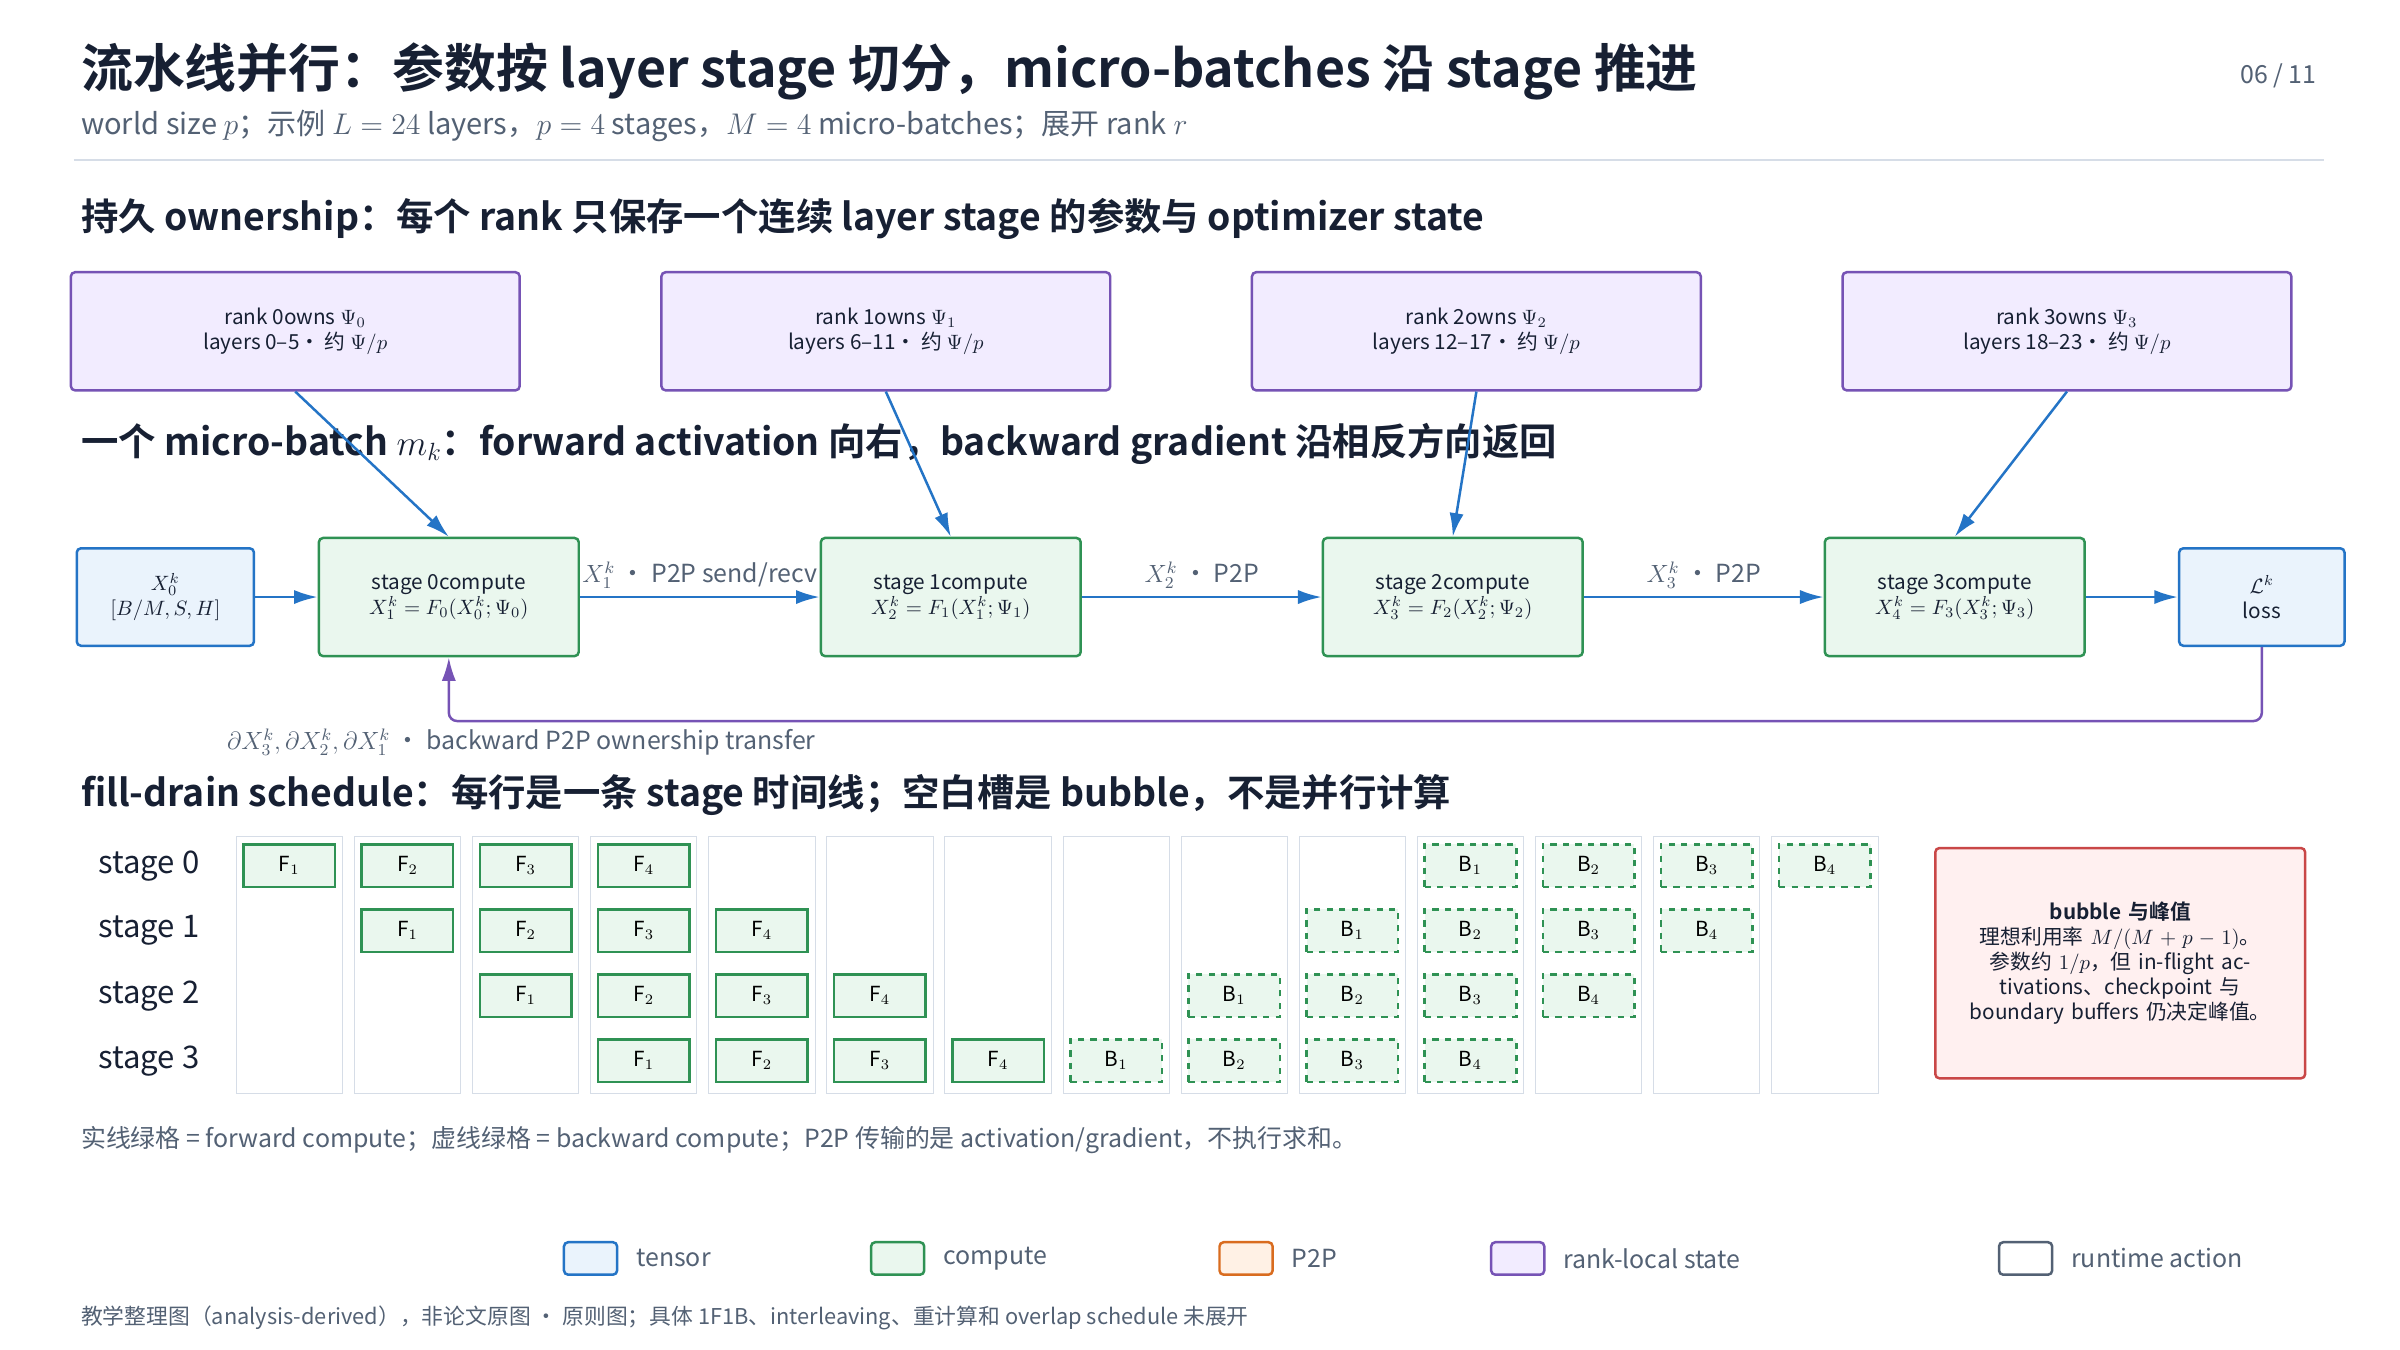
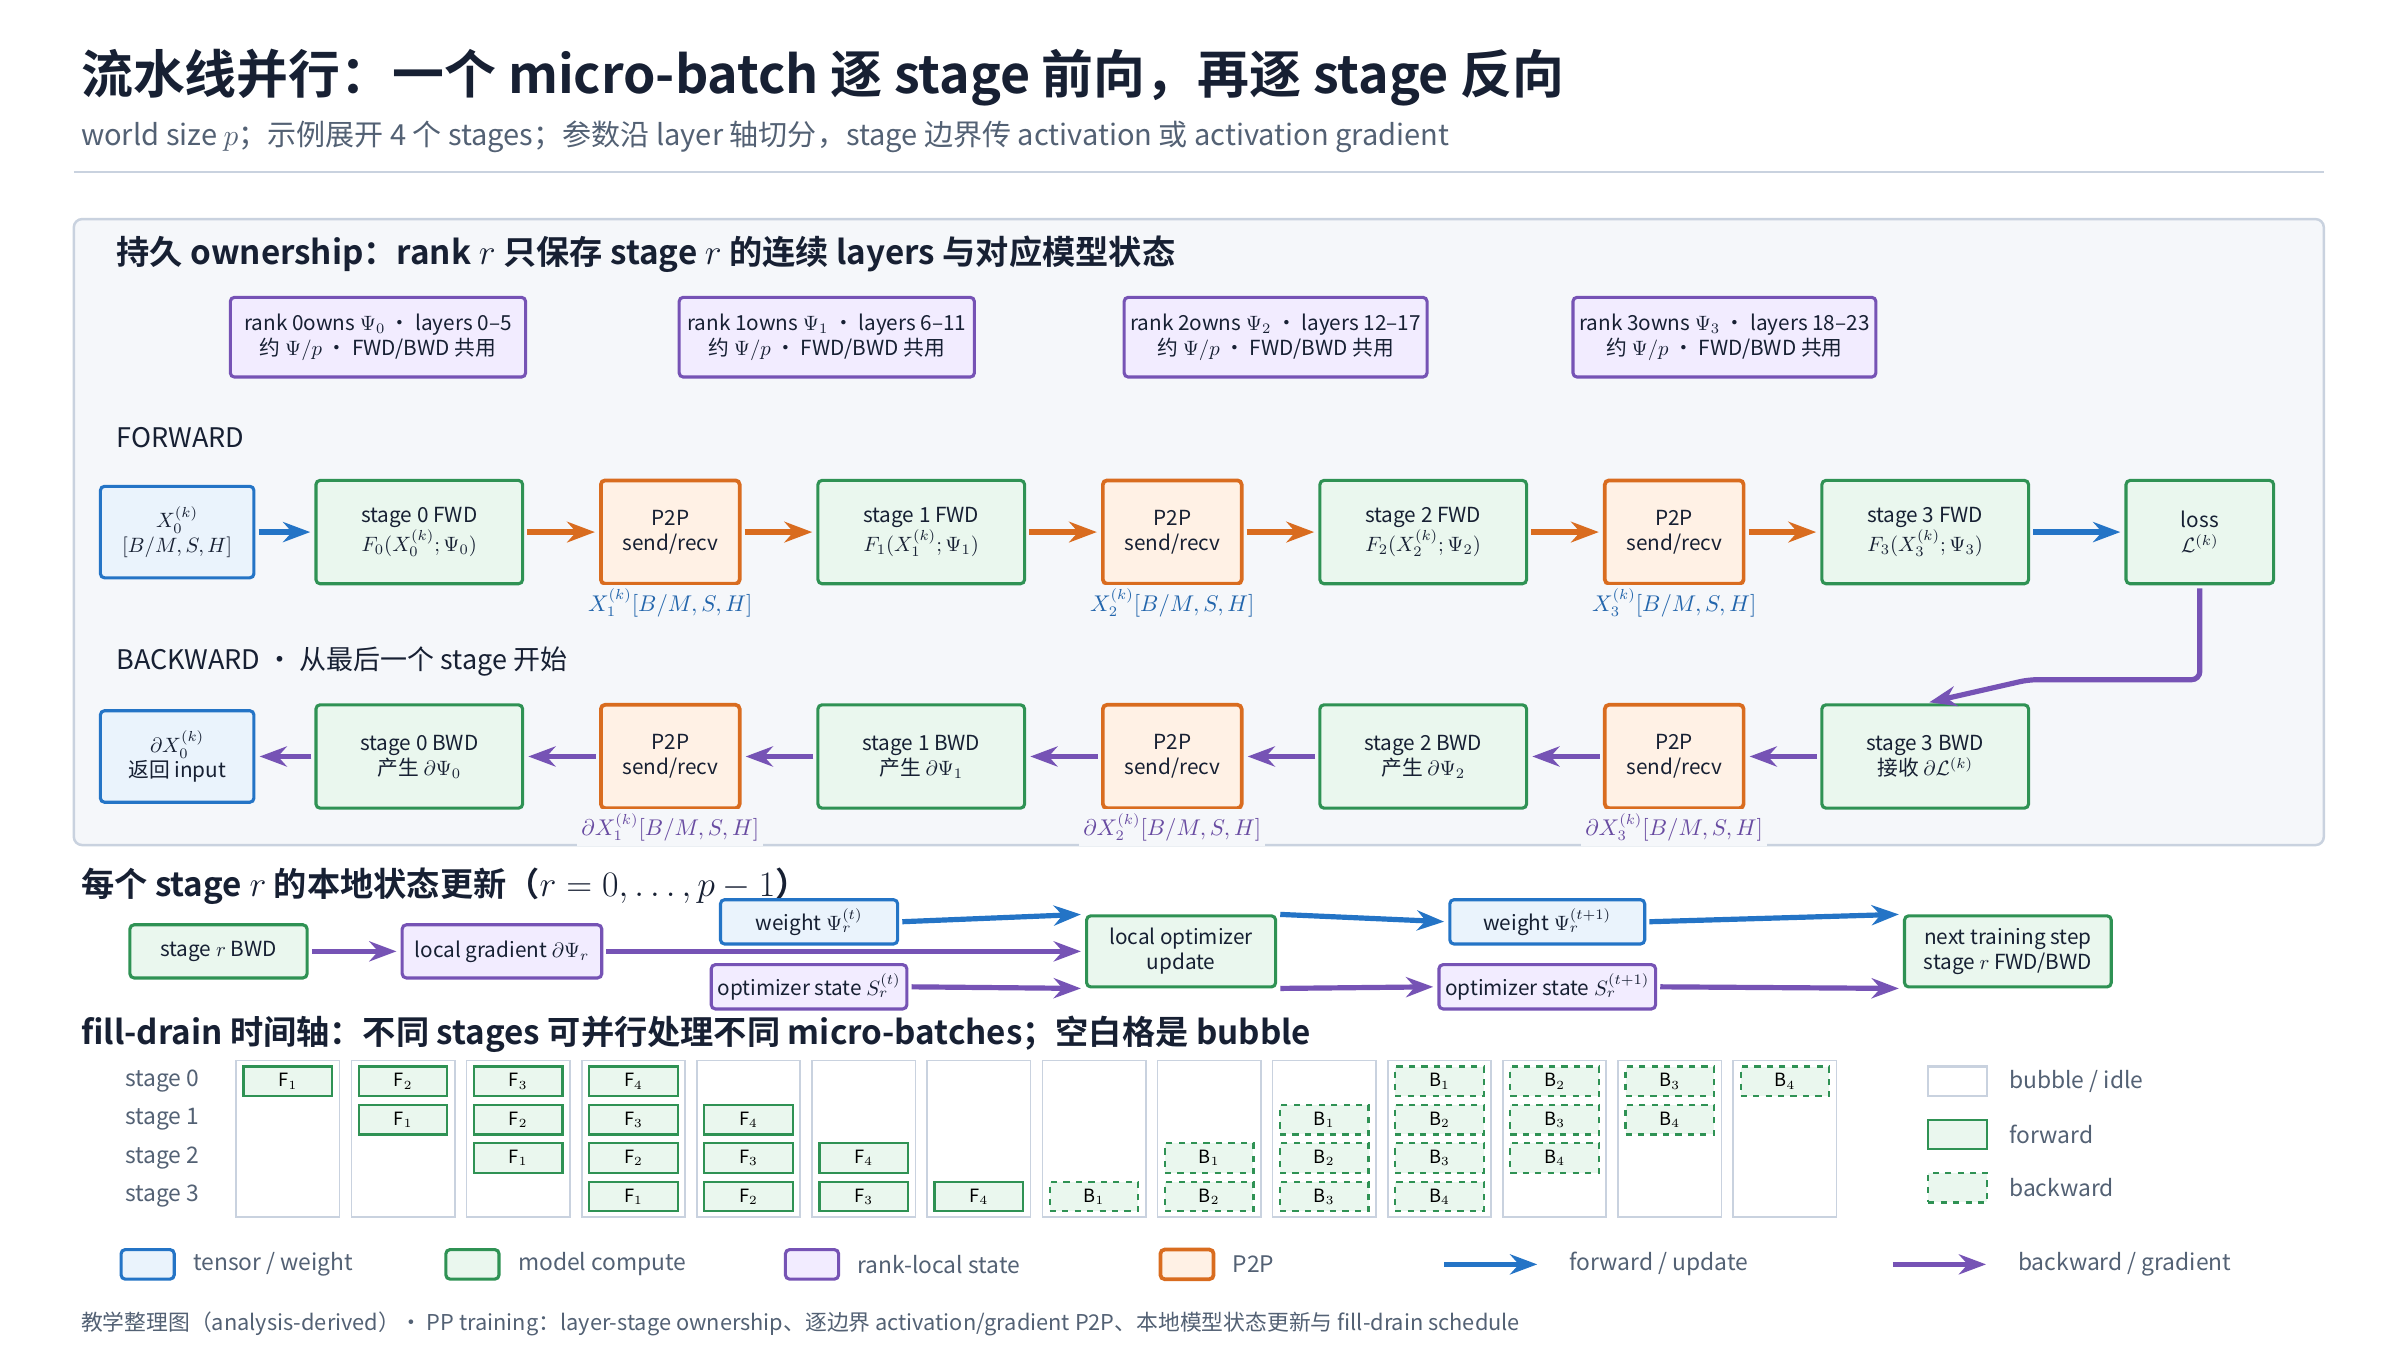
docs(parallelism): correct PP backward flow

diff --git a/01_ai_infra/parallelism/evidence/figure-inventory.md b/01_ai_infra/parallelism/evidence/figure-inventory.md
@@ -44,7 +44,7 @@ canonical: true
 
 以下 11 张 PNG 全部由 [并行切分方法体系](../surveys/parallel-partitioning-taxonomy.md) 独占，使用 TikZ 排版并以 `2400×1350` 输出。它们是 analysis-derived 教学整理图，不是原论文 Figure/Table，不计入论文视觉证据数量。TikZ 源码、PDF、过程渲染、contact sheet 与像素检查保留在 process workspace。
 
-2026-08-04 的 `1.10.0` 修订把 PP、SP、Ulysses、Ring/CP 与 CFGP 补齐到同一 semantic visual grammar：蓝色只表示 tensor/weight，绿色只表示 model compute，橙色表示 collective/P2P，紫色表示 rank-local persistent state，灰色表示 runtime action。PP 分开表示 stage 参数 ownership、单个 micro-batch 的 forward/backward P2P 与 fill-drain 时间轴；SP 显式展示 AG/RS 两侧的 activation ownership 生命周期；Ulysses 保留 sender chunk、receiver concat 与双向 layout transpose；Ring/CP 把固定 $Q$、轮转 KV、online-softmax state、环形 P2P 和 causal imbalance 分层；CFGP 分开显示并行 branches、复制模型状态、branch-output exchange 和 guidance combine。五张图均参数化 world size $p$ 与 illustrated rank $r$，并移除会把 rank 颜色误当节点类型、让箭头穿过状态框或让节点超出画布的旧表达。`1.9.0` 修订统一普通 DP、ZeRO-1/2/3、TP 与 EP 的 tensor-flow 视觉语法：保留输入、输出、当前 micro-batch、ownership 和持久状态等有独立语义的框；其余中间 tensor 改为主箭头附近的蓝色标注，并让细引线与主 flow 保持间距。ZeRO 图保留有助于表达顺序执行的 $m_k$，且 all-gather 输出到计算使用单根完整橙色箭头，避免拼接成多色箭头。TP/EP 按 pre-norm layer 粒度展开，`Norm` 不绑定具体归一化实现；residual shortcut 用独立蓝色虚线，TP 以纵/横条纹区分 column/row split 并显式展示本 rank weight shard，EP 采用单向处理链和 expert ownership 条带。`1.8.0` 将普通 DP 与 ZeRO-1/2/3 更新为框架中立的方法机制图：sampler 与 async release 使用独立 runtime-action 语义；weight、gradient 与 optimizer state 显式展示 ownership；ZeRO-2 删除 bucket 等实现优化；ZeRO-3 用 `MODEL LAYERS × L` 标出 layer-local 重复范围，并把 temporary BF16 weight、FWD/BWD 输入依赖和异步 release 侧支画入 workflow。原理图的可见区域不再包含 framework、commit、配置或源码符号。`1.7.0` 修订用每 rank 单条时间线替换 `1.6.0` 的并列支路，使 micro-batch 顺序由箭头拓扑显式表达。`1.6.0` 曾显式列出 $m_1$、$m_2$、$m_K$ 及累计状态，但并列布局容易被误读为同一 rank 内并发，现已替换。`1.5.0` 将 ZeRO-1 修正为 gradient reduce-scatter、owner-local update 和 parameter all-gather。`1.4.0` 修订把 DP/ZeRO 汇总图拆成普通 DP、ZeRO-1、ZeRO-2、ZeRO-3 四张 workflow。2026-08-02 的 `1.3.0` 修订把原 SVG 重绘为 TikZ。`1.2.0` 参考的 [Colossal-AI Parallelism](https://colossalai.org/docs/concepts/paradigms_of_parallelism) 只作为视觉组织参考；tensor 关系、成本注释和边界条件来自本领域 canonical Paper/Topic/Evidence 的综合分析。
+2026-08-04 的 `1.10.1` 修订纠正 PP 的 backward 拓扑：loss 仅进入最后一个 stage，activation gradient 再按 stage 3 → 2 → 1 → 0 逐边界 P2P 返回；同时显式增加各 stage 本地 weight、gradient、optimizer state 与 update 的交互链。`1.10.0` 修订把 PP、SP、Ulysses、Ring/CP 与 CFGP 补齐到同一 semantic visual grammar：蓝色只表示 tensor/weight，绿色只表示 model compute，橙色表示 collective/P2P，紫色表示 rank-local persistent state，灰色表示 runtime action。PP 分开表示 stage 参数 ownership、单个 micro-batch 的 forward/backward P2P 与 fill-drain 时间轴；SP 显式展示 AG/RS 两侧的 activation ownership 生命周期；Ulysses 保留 sender chunk、receiver concat 与双向 layout transpose；Ring/CP 把固定 $Q$、轮转 KV、online-softmax state、环形 P2P 和 causal imbalance 分层；CFGP 分开显示并行 branches、复制模型状态、branch-output exchange 和 guidance combine。五张图均参数化 world size $p$ 与 illustrated rank $r$，并移除会把 rank 颜色误当节点类型、让箭头穿过状态框或让节点超出画布的旧表达。`1.9.0` 修订统一普通 DP、ZeRO-1/2/3、TP 与 EP 的 tensor-flow 视觉语法：保留输入、输出、当前 micro-batch、ownership 和持久状态等有独立语义的框；其余中间 tensor 改为主箭头附近的蓝色标注，并让细引线与主 flow 保持间距。ZeRO 图保留有助于表达顺序执行的 $m_k$，且 all-gather 输出到计算使用单根完整橙色箭头，避免拼接成多色箭头。TP/EP 按 pre-norm layer 粒度展开，`Norm` 不绑定具体归一化实现；residual shortcut 用独立蓝色虚线，TP 以纵/横条纹区分 column/row split 并显式展示本 rank weight shard，EP 采用单向处理链和 expert ownership 条带。`1.8.0` 将普通 DP 与 ZeRO-1/2/3 更新为框架中立的方法机制图：sampler 与 async release 使用独立 runtime-action 语义；weight、gradient 与 optimizer state 显式展示 ownership；ZeRO-2 删除 bucket 等实现优化；ZeRO-3 用 `MODEL LAYERS × L` 标出 layer-local 重复范围，并把 temporary BF16 weight、FWD/BWD 输入依赖和异步 release 侧支画入 workflow。原理图的可见区域不再包含 framework、commit、配置或源码符号。`1.7.0` 修订用每 rank 单条时间线替换 `1.6.0` 的并列支路，使 micro-batch 顺序由箭头拓扑显式表达。`1.6.0` 曾显式列出 $m_1$、$m_2$、$m_K$ 及累计状态，但并列布局容易被误读为同一 rank 内并发，现已替换。`1.5.0` 将 ZeRO-1 修正为 gradient reduce-scatter、owner-local update 和 parameter all-gather。`1.4.0` 修订把 DP/ZeRO 汇总图拆成普通 DP、ZeRO-1、ZeRO-2、ZeRO-3 四张 workflow。2026-08-02 的 `1.3.0` 修订把原 SVG 重绘为 TikZ。`1.2.0` 参考的 [Colossal-AI Parallelism](https://colossalai.org/docs/concepts/paradigms_of_parallelism) 只作为视觉组织参考；tensor 关系、成本注释和边界条件来自本领域 canonical Paper/Topic/Evidence 的综合分析。
 
 | Owner | Asset | 用途 | 分辨率 | 声明 | QA |
 |---|---|---|---|---|---|
@@ -53,7 +53,7 @@ canonical: true
 | [并行切分方法体系](../surveys/parallel-partitioning-taxonomy.md) | [ZeRO-2](../assets/surveys/parallel-partitioning-taxonomy/zero2-training-workflow.png) | 保留当前 $m_k$；每个 micro-batch 的 FP32 gradient reduce-scatter、owner-shard accumulation、owner-local optimizer 与 BF16 parameter all-gather | `2400×1350` | 教学整理图 / 非论文证据 | passed：LuaLaTeX、原分辨率逐图检查、无 bucket 实现细节、分支箭头/tensor callout/ownership/collective 语义 QA，2026-08-04 |
 | [并行切分方法体系](../surveys/parallel-partitioning-taxonomy.md) | [ZeRO-3](../assets/surveys/parallel-partitioning-taxonomy/zero3-training-workflow.png) | `MODEL LAYERS × L`、temporary BF16 weight callout、FWD/BWD 输入依赖、异步 release 侧支、gradient reduce-scatter 与 shard-local optimizer | `2400×1350` | 教学整理图 / 非论文证据 | passed：LuaLaTeX、原分辨率逐图检查、无文字覆盖、单根 all-gather 输入箭头、lifecycle/ownership/collective 频率 QA，2026-08-04 |
 | [并行切分方法体系](../surveys/parallel-partitioning-taxonomy.md) | [TP](../assets/surveys/parallel-partitioning-taxonomy/tensor-parallel-block.png) | pre-norm attention/FFN layer；$[B,S,H]$ tensor flow；column/row 条纹、rank-local weight ownership、partial all-reduce 与 residual shortcuts | `2400×1350` | 教学整理图 / 非论文证据 | passed：LuaLaTeX、原分辨率逐图检查、tensor callout 间距、shortcut 分离、weight shard/shape/collective 语义 QA，2026-08-04 |
-| [并行切分方法体系](../surveys/parallel-partitioning-taxonomy.md) | [PP](../assets/surveys/parallel-partitioning-taxonomy/pipeline-parallel-schedule.png) | stage 参数 ownership、单个 micro-batch 的 activation/gradient P2P、fill-drain 时间线与 bubble | `2400×1350` | 教学整理图 / 非论文证据 | passed：LuaLaTeX、原分辨率逐图检查、sequential schedule、P2P/ownership/bubble/节点类型语义 QA，2026-08-04 |
+| [并行切分方法体系](../surveys/parallel-partitioning-taxonomy.md) | [PP](../assets/surveys/parallel-partitioning-taxonomy/pipeline-parallel-schedule.png) | stage ownership、loss 从末级启动并逐边界返回的 activation-gradient P2P、stage-local weight/gradient/optimizer-state update、fill-drain 时间线与 bubble | `2400×1350` | 教学整理图 / 非论文证据 | passed：LuaLaTeX、原分辨率逐图检查、loss → stage 3 → 2 → 1 → 0 backward 拓扑、本地模型状态更新、P2P/ownership/bubble/节点类型语义 QA，2026-08-04 |
 | [并行切分方法体系](../surveys/parallel-partitioning-taxonomy.md) | [EP](../assets/surveys/parallel-partitioning-taxonomy/expert-parallel-routing.png) | pre-norm MoE layer 单向执行链；箭头标注 token layout；A2A dispatch/return、local expert FFN、residual shortcut 与 expert weight ownership | `2400×1350` | 教学整理图 / 非论文证据 | passed：LuaLaTeX、原分辨率逐图检查、flow 顺序、tensor callout 间距、shortcut/ownership/A2A 语义 QA，2026-08-04 |
 | [并行切分方法体系](../surveys/parallel-partitioning-taxonomy.md) | [Megatron SP](../assets/surveys/parallel-partitioning-taxonomy/megatron-sequence-parallel.png) | sequence-local compute、AG/RS 边界、TP partial 与阶段 activation ownership | `2400×1350` | 教学整理图 / 非论文证据 | passed：LuaLaTeX、原分辨率逐图检查、rank $r$/shape/buffer lifetime/AG-RS 语义 QA，2026-08-04 |
 | [并行切分方法体系](../surveys/parallel-partitioning-taxonomy.md) | [Ulysses](../assets/surveys/parallel-partitioning-taxonomy/ulysses-layout-transpose.png) | sequence/head ownership transpose、sender chunks、receiver concat、local attention 与两次 A2A | `2400×1350` | 教学整理图 / 非论文证据 | passed：LuaLaTeX、原分辨率逐图检查、$p/r$/shape/sender-receiver/no-sum/layout 语义 QA，2026-08-04 |

diff --git a/01_ai_infra/parallelism/surveys/parallel-partitioning-taxonomy.md b/01_ai_infra/parallelism/surveys/parallel-partitioning-taxonomy.md
@@ -147,7 +147,7 @@ $$
 
 ![Pipeline Parallel schedule|1376](../assets/surveys/parallel-partitioning-taxonomy/pipeline-parallel-schedule.png)
 
-> 图上半部把 layer-stage 参数 ownership 与单个 $m_k$ 的 forward activation / backward gradient P2P 分开；下半部用每个 stage 的单条时间线表示 fill-drain schedule。实线绿格是 forward compute，虚线绿格是 backward compute，空白格才是 bubble；颜色不再表示 rank，以免把持久状态、计算和通信混为一类。
+> 图上半部把 layer-stage ownership 与单个 $m_k$ 的双向数据流分开：loss 只把反向入口送入最后一个 stage，随后 activation gradient 按 stage 3 → 2 → 1 → 0 逐边界 P2P 返回，不会从 loss 直接跳到 stage 0。中间状态链显式表示每个 stage 的本地 weight、gradient 与 optimizer state 如何共同完成 update；下半部用每个 stage 的单条时间线表示 fill-drain schedule。实线绿格是 forward compute，虚线绿格是 backward compute，空白格才是 bubble。
 
 > 教学整理图，非论文证据。GPipe 的 schedule、重计算与实验证据见 [GPipe](../papers/gpipe.md#核心机制)。
 
